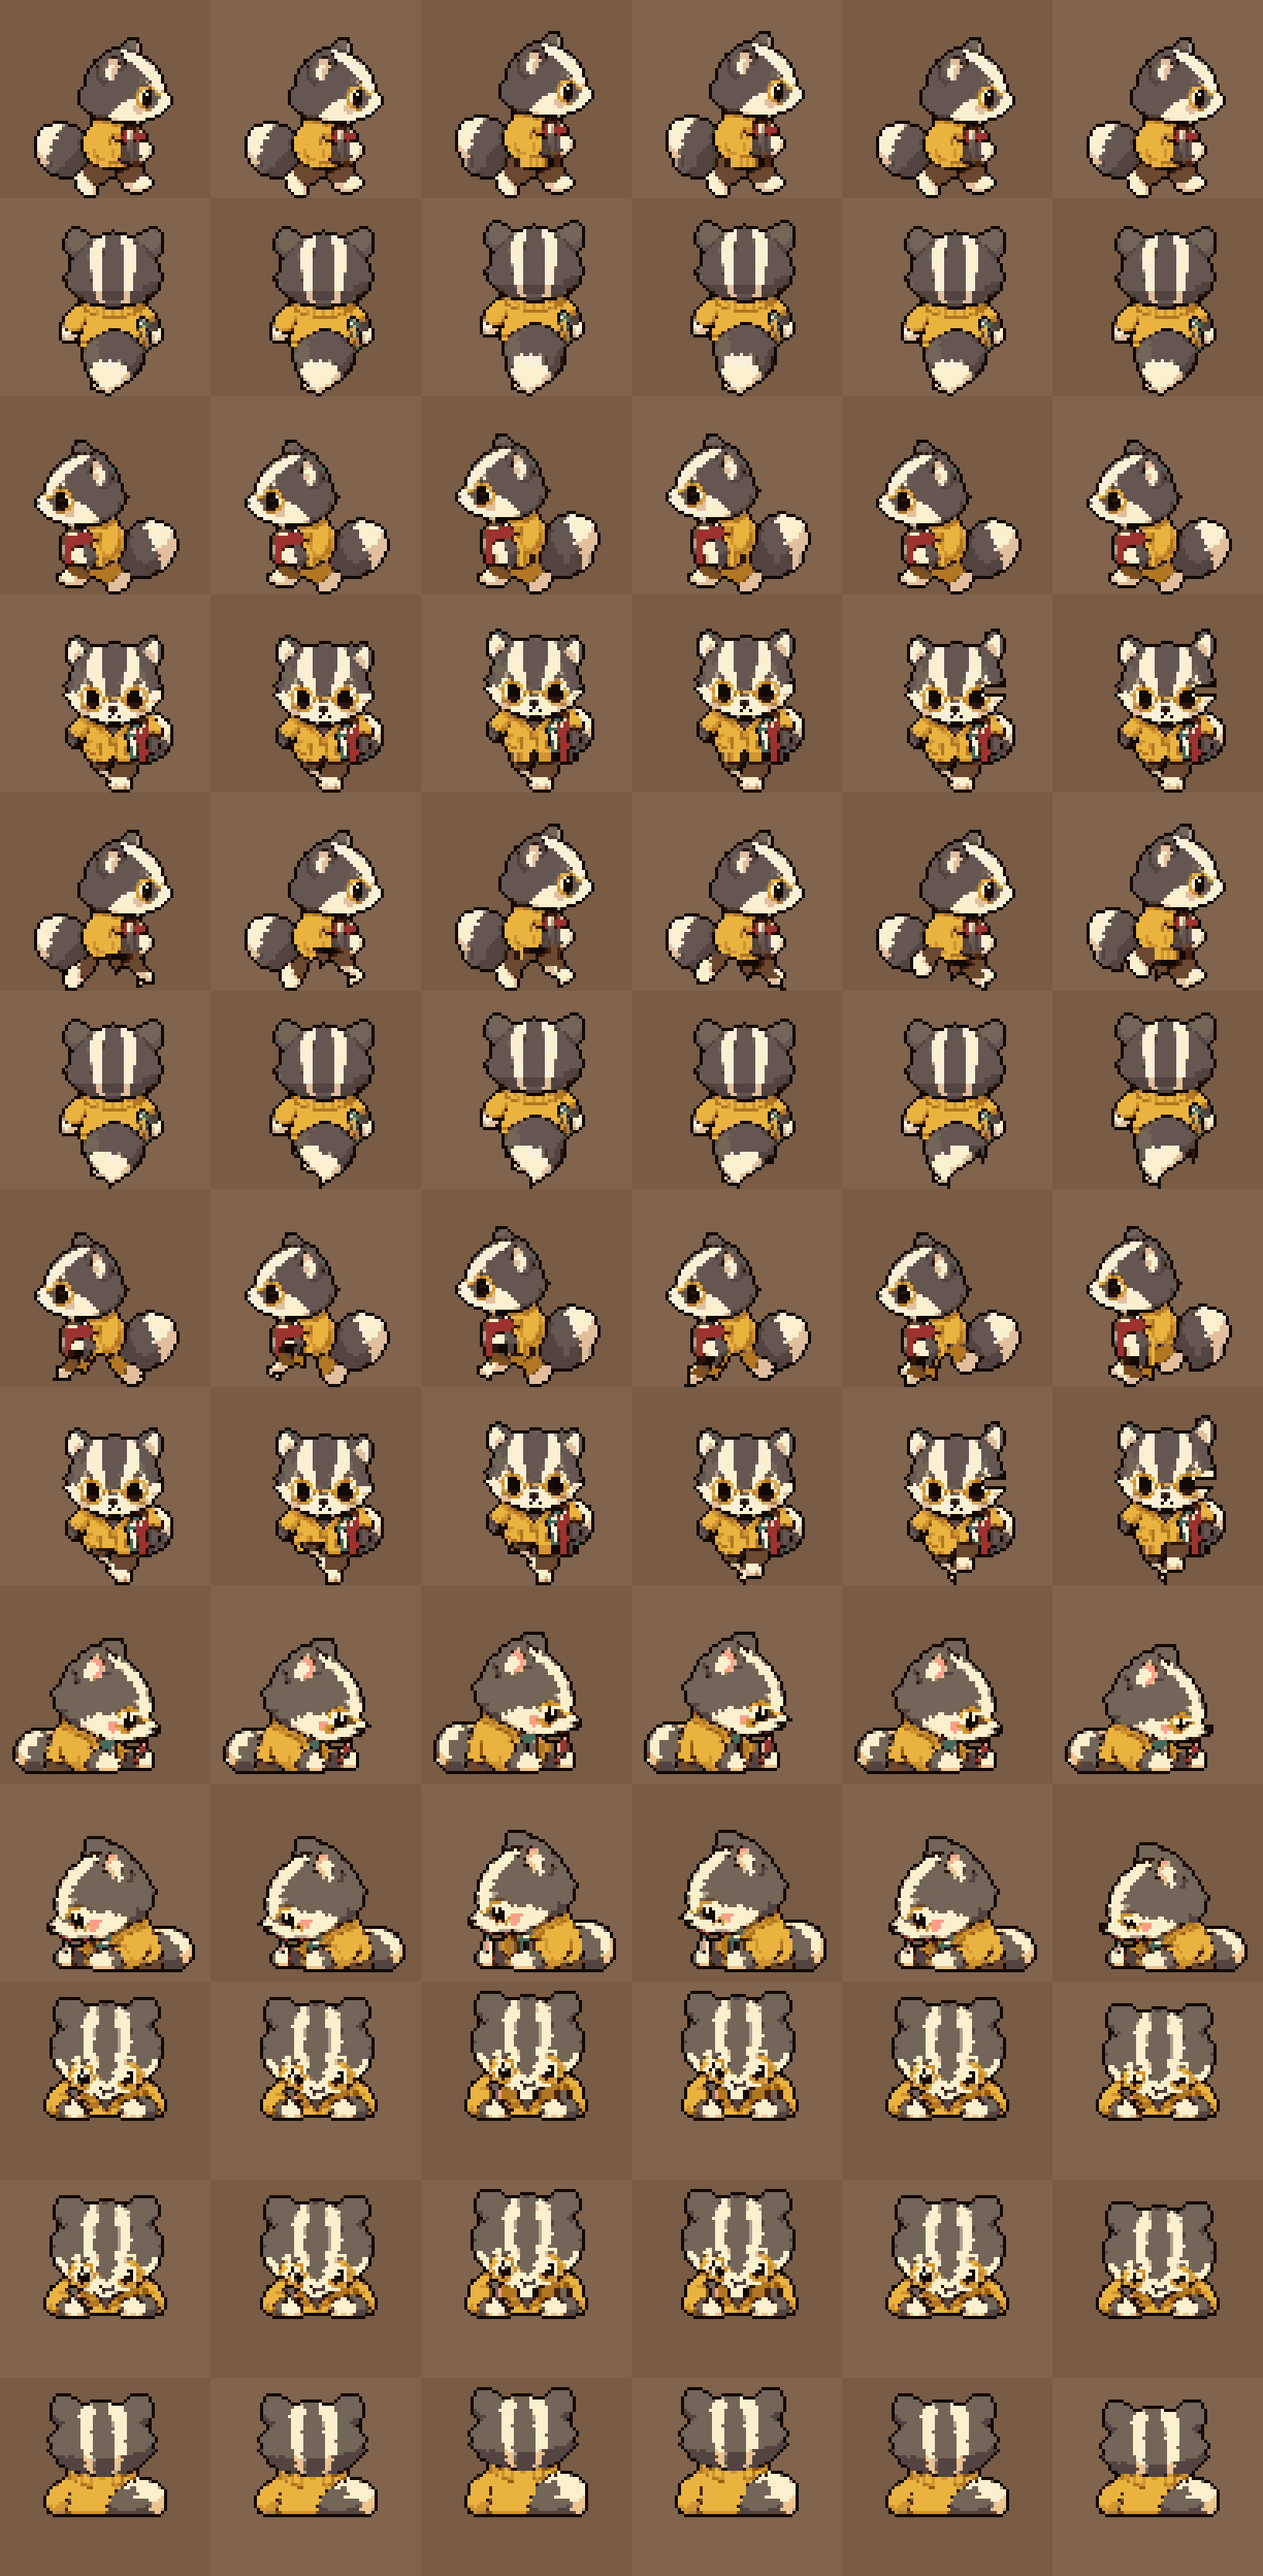
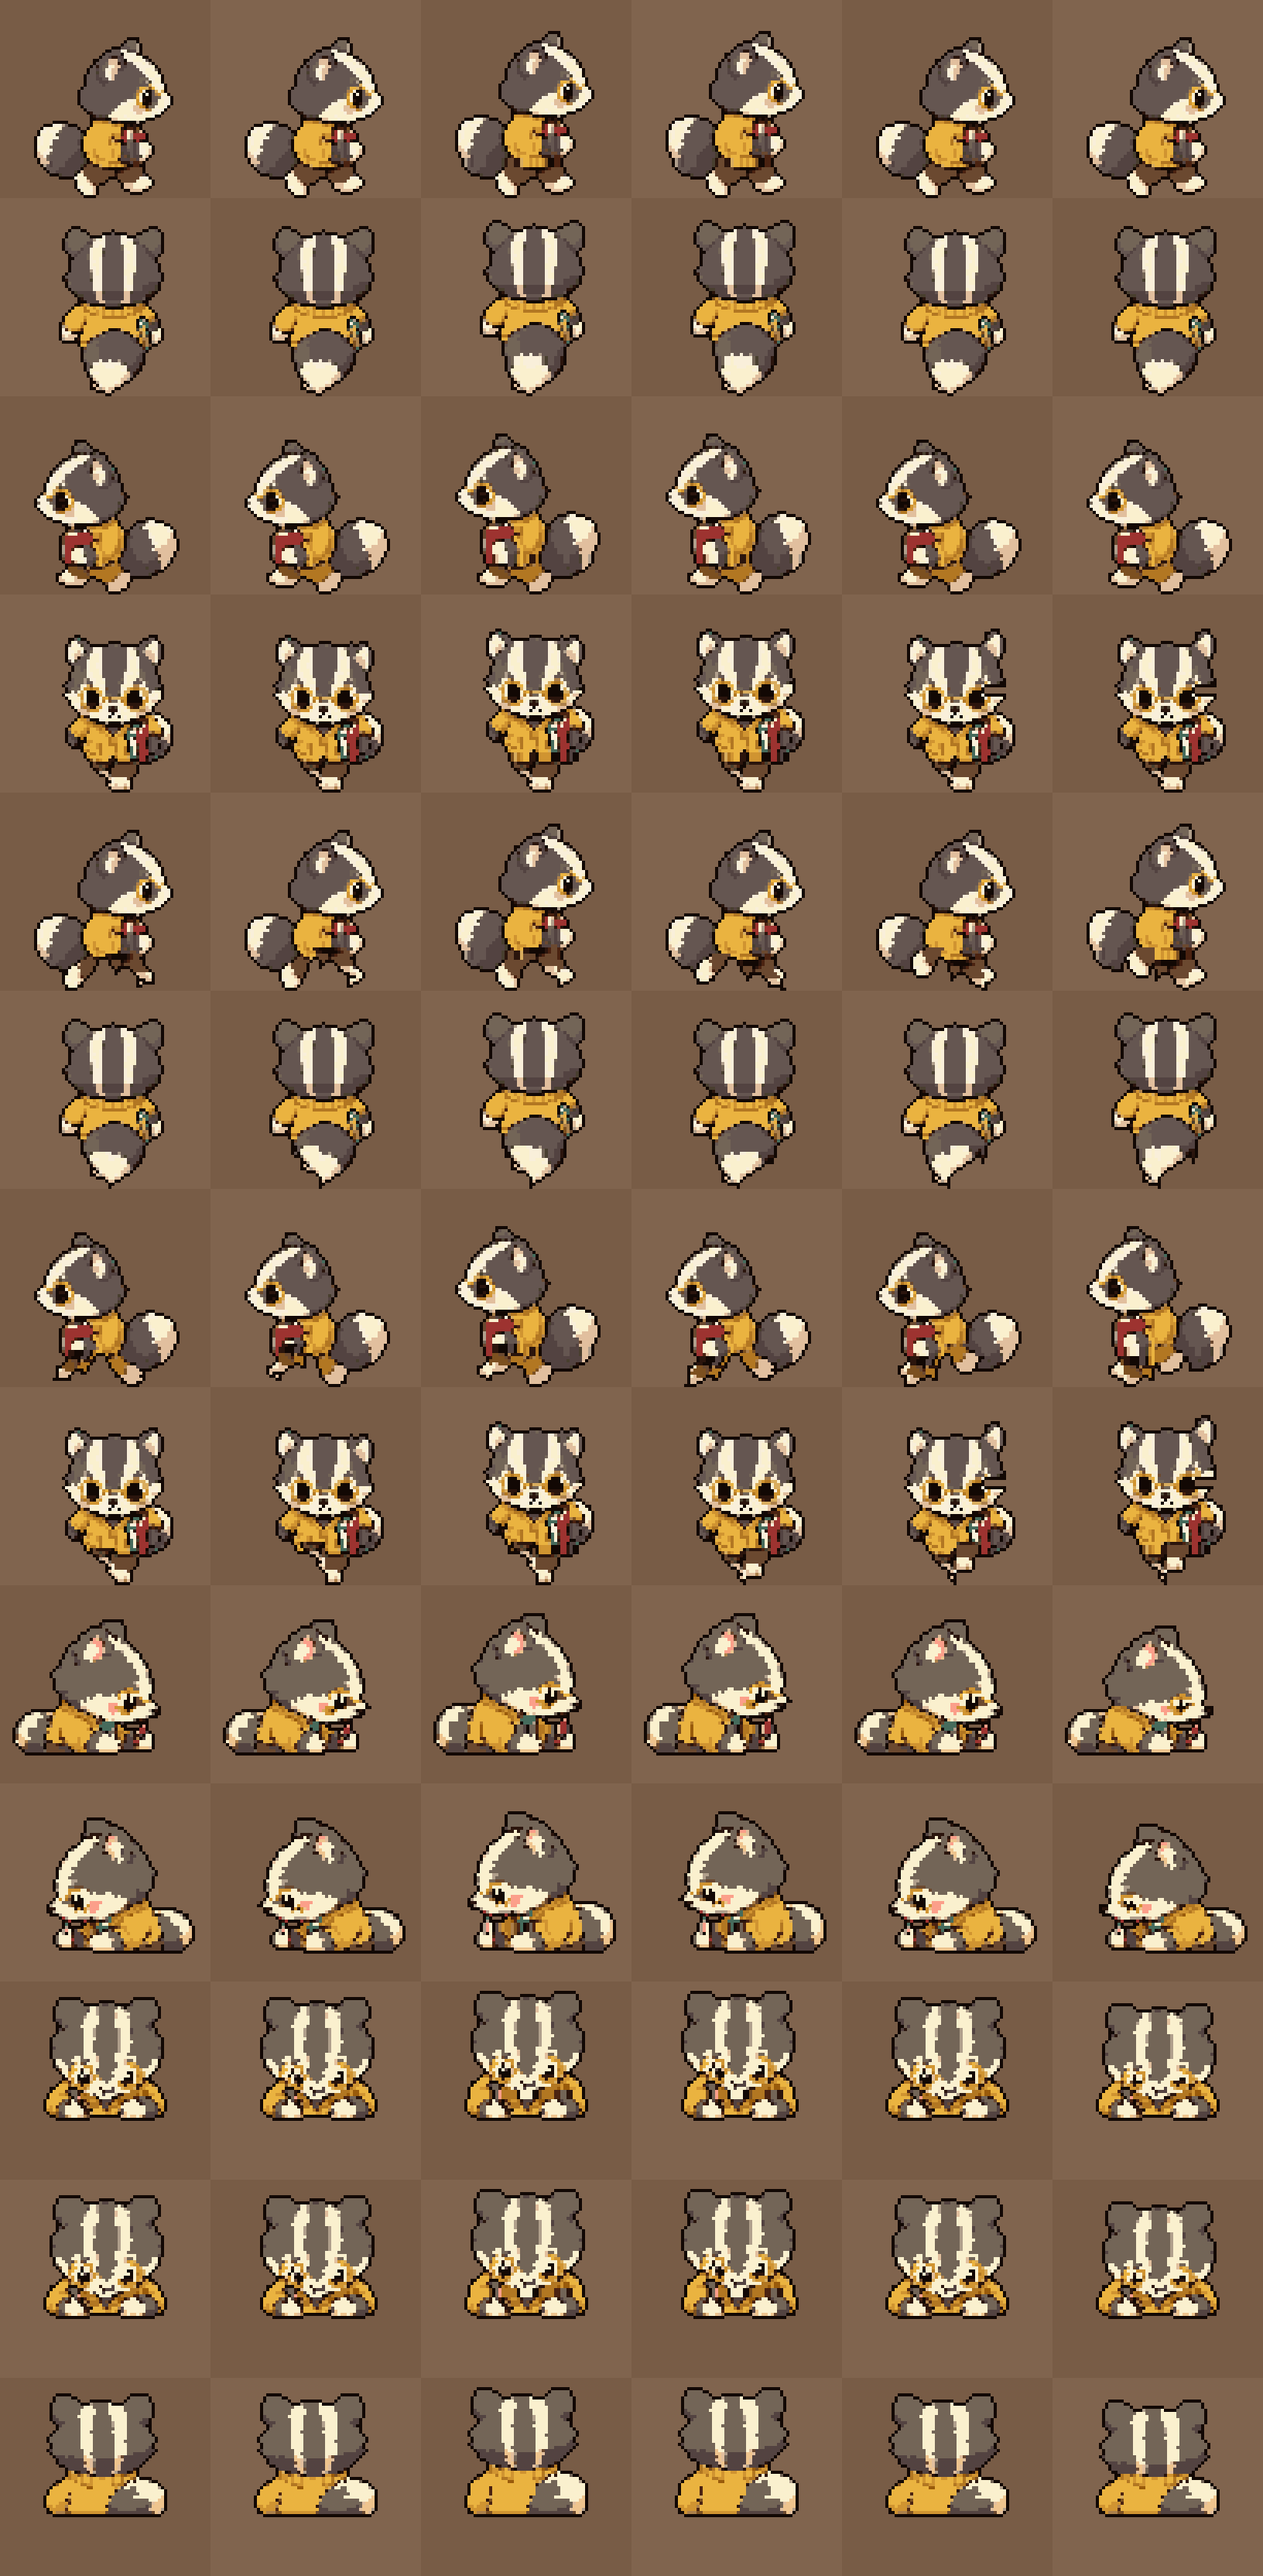
animals: seated side poses on the chair seat (row 27), docs for the 2x strips
Claude-Session: https://claude.ai/code/session_01AYnvDD8wfvRrMANqYiR2z4

diff --git a/src/lib/studyapp/library/people/animal.test.ts b/src/lib/studyapp/library/people/animal.test.ts
@@ -175,10 +175,10 @@ for (const animal of ANIMALS) {
       assert.equal(m.sit?.kind, "drawn");
       const row = composeAnimal(await strip(), animal, { graded: false })!;
       const box = (n: number) => { const f = frameAt(row.rgba, n); const c = cols(f, ANIMAL_W), r = rows(f, ANIMAL_W); return { x0: c[0], x1: c[c.length - 1], y0: r[0], y1: r[r.length - 1] }; };
-      // the two profiles are placed as mirror images of each other, on one baseline (the lap line, row 30), the loop's head moves 2 rows at most
+      // the two profiles are placed as mirror images of each other, on one baseline (the lap line, row 27, the chair seat), the loop's head moves 2 rows at most
       const R = box(POSE.sit), L = box(POSE.sit + 6);
       assert.ok(Math.abs((R.x0 + R.x1) + (L.x0 + L.x1) - 2 * (ANIMAL_W - 1)) <= 6, `right and left sit mirror placed (${JSON.stringify(R)} ${JSON.stringify(L)})`);
-      assert.equal(R.y1, 30); assert.equal(L.y1, 30);
+      assert.equal(R.y1, 27); assert.equal(L.y1, 27);
       for (const first of [POSE.sit, POSE.sit + 6, POSE.phone, POSE.read, POSE.stool]) {
         const tops = Array.from({ length: 6 }, (_, i) => top(frameAt(row.rgba, first + i)));
         assert.ok(Math.max(...tops) - Math.min(...tops) <= 2, `pose at ${first}: the head moves ${tops}`);

diff --git a/docs/study/library.md b/docs/study/library.md
@@ -234,7 +234,7 @@ iPad table has: right and left at the long tables, the arm chairs, the pod stool
   (`docs/study/art/source/animal-sit-sheet-01.png`, 1536 x 1024, magenta: 4 rows = the four animals, 4 columns = leaning over a table writing, facing left,
   right, the camera (head tipped down, seen from above) and away; one static pose each; legs and lap not drawn, the table hides them; about 3.5 source
   px per art pixel, finer than the standing 8 to 9). `animal_sit.py` (config `tools/art/animal_sit.json`, so a second sheet is one more entry) turns it into
-  frames 48 to 77 of each strip: **sit right** and **sit left** (the two profiles, placed mirror image on one baseline, row 30, the torso on column 13 and
+  frames 48 to 77 of each strip: **sit right** and **sit left** (the two profiles, placed mirror image on one baseline, row 27 (the chair seat), the torso on column 13 and
   20), **phone** and **read** (the front pose, twice) and **stool** (the back pose, its bottom on row 22). Idle and walk (frames 0 to 47) are byte for byte what
   they were (the tool asserts it) and the other five animals are untouched.
   **Drawn:** the figure, its colours, the ears, the sweater, the face, the tail, the pen, the paws. **Synthesised, deterministically:** the 6 frame working
@@ -256,10 +256,18 @@ iPad table has: right and left at the long tables, the arm chairs, the pod stool
   Run: `python3 tools/art/animal_sit.py` (idempotent); `animal_sheet.py` calls it after it rebuilds a strip, so a rebuilt animal keeps its drawn seats.
   `animals.json` has `"seated": "drawn"` for the four; each strip's json has `sit` (the sheet, the scale) and `basePalette` (the walk's colours; the strip's
   palette is those plus the extras).
-  **2x detail (not integrated):** the new art is 2.6x finer than the engine's pixel; a 4.5 source px variant would be 40 to 48 columns by 40 rows per
-  figure, which needs a 2x frame in the engine (its own frame width through `Person.fw`, a 2x seat table, 2x walks, or the seated animals the only fine thing in a room
-  of coarse ones). Not done: it would mix two pixel sizes in one room. It looks clearly better (the ear's fluff, the tail, the paws and the pen, the face): `docs/study/art/animals/seated-engine-vs-2x.png`
-  (`python3 tools/art/animal_sit.py --detail DIR` writes it: the engine's scale above, 2x below, per animal).
+  **2x strips (all nine animals).** The ChatGPT art is about 4 source px per pixel, twice as fine as the engine's 8 to 9 (a standing sprite is cut from 200 px of source, so a
+  frame of 2x is the sheet's own pixel; 2.5x or 3x would only repeat it). `public/library/characters/<id>@2x.png` is the same 78 frames in the same order, each **68 x 64**
+  (the art 48 x 64, the feet on row 63, 5 x 2 empty columns each side), made by `animal_sheet.py --hires 2` (the same palette, the same rig: `animal_rig.set_scale(2)` multiplies every
+  length of the motion by 2 and keeps its pattern, so a stride, a bob and a breath are the same in art pixels; the outline is 1 pixel of the finer grid) and, for the four with drawn seats,
+  `animal_sit.py --hires 2` (the seated figure at its natural detail, the SAME size as the 1x one so that a switch between the two never changes it; the loop's steps are 2 rows).
+  The other five seated poses are the rig's stand-ins at 2x. 280 KB for the nine (the 1x ones 73 KB); `check_animals.py` runs every rule on both.
+  **In the engine** (`cafeScene.ts` library mode, `TownEngine`): a person's logical frame is still 34 x 32 art px, and a 2x frame is drawn over exactly that box (source rect
+  `f * 68, 0, 68, 64`, destination `34 k x 32 k`), so the anchors, the feet, the seat table, the z order and occlusion, the shadow (which is in art pixels: still 0.44 of the figure's height),
+  the labels, the hit box and the hover outline are the 1x ones. It is used only when **k is even** (a pixel of it is k / 2 whole device px: at 1280 x 800 on a plain display k is 3 and
+  it keeps the 1x strip; on a retina display k is 4 to 8 and the 2x one is drawn); the art-grid draw path (a canvas of one pixel per art pixel, used when the engine drops to 30 Hz) is 1x only.
+  `people/store.ts` fetches `@2x` after the 1x strip and a failure leaves 1x; `DrawnPerson.sheet2`, `LiveRemote.sheet2`, `youSheet.sheet2`, `dressYou(.., sheet2)`, `PlayerArt.img2`. The room and the
+  furniture stay at k, so the animals are finer than the room: intended. Homepage canvases are byte identical (`hero-det2.js`, 4 modes, base against this branch).
 - **Numbers** (`check_animals.py -v`): the head bobs 1 to 2 rows in every direction; the torso slides at most 2.3 columns between frames
   (usually under 1); foot motion (the change of the feet's extent on the bottom two rows, a frame to the next) is 3.6 to 6.0 columns a frame
   against a person's 5.5. FOOT SKATE: the room moves a walker 14 art px a frame and no foot of a 24 px sprite can step back that fast, so every

diff --git a/docs/study/cafe.md b/docs/study/cafe.md
@@ -104,7 +104,7 @@ Ids are an append-only registry (`cafe.seats.json`; `cafe.test.ts` holds the pub
 
 **Front and back seats (17).** The fox, capybara, axolotl and badger have SEATED art drawn for it (`docs/study/library.md` "Characters",
 `tools/art/animal_sit.py`): at a front seat (`long-n*`, `nb*-n`, `sun-sofa*`, `bA-n`, `bB-n`) the head is tipped down over the table and the
-neck is on the row where the table's edge cuts, so the face shows and the paws and the pen are under the table; at a back seat (`long-s*`, `rl-s`, `rr-s`, `st*-s`) the whole figure
+neck is on row 16 (the table's edge cuts at about row 22), so the face and the shoulders show and the paws and the pen are under the table; at a back seat (`long-s*`, `rl-s`, `rr-s`, `st*-s`) the whole figure
 sits on the chair with its back to us; at the side seats (`-w`, `-e`, the ends of the long table) the profile leans toward the table (the face is at the table's edge, the tail hangs out
 over the chair back by 3 to 6 px: accepted). The red panda, raccoon, hedgehog, triceratops and dragon still use the stand-in seated poses (the `read` frames are the standing front view
 cut at the hip, the stool strip the back view), which are the weak point of the art, `library.md` "Limits". Every seat was sat in by a script in the browser (47 of 47, `shots/cafe/seat-NN.png`).
